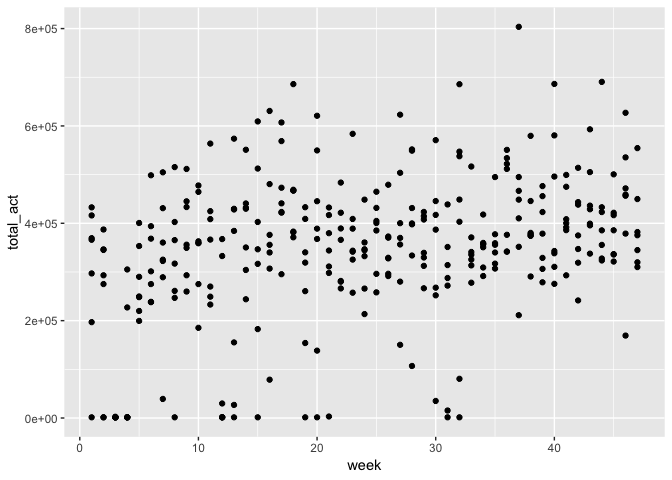
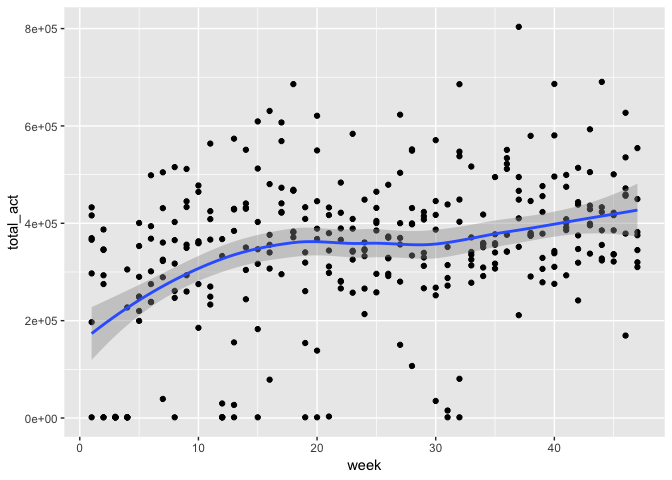
filtered data into week 1 sunday 24 hours, made plot

Changed region(s): [[0.125, 0.375, 0.9688, 0.75]]

diff --git a/p8105_mtp_jih2119.md b/p8105_mtp_jih2119.md
@@ -83,8 +83,11 @@ This dataset consists of week, day, and activity variables. Each activity column
 
 ``` r
 ggplot(accel_data, aes(x = week, y = total_act)) +  
-  geom_point()
+  geom_point() +
+  geom_smooth()
 ```
+
+    ## `geom_smooth()` using method = 'loess' and formula 'y ~ x'
 
 ![](p8105_mtp_jih2119_files/figure-markdown_github/total_act_plot-1.png)
 
@@ -94,6 +97,20 @@ ggplot(accel_data, aes(x = day, y = avg_act)) +
 ```
 
 ![](p8105_mtp_jih2119_files/figure-markdown_github/days-1.png)
+
+``` r
+sunday_act = accel_data %>% 
+  gather(key = daily_act, value = activity, activity_1:activity_1440) %>% 
+  filter(day == "Sunday" & week == 1) %>% 
+  mutate(daily_act = str_replace(daily_act, "activity_", "")) %>% 
+  mutate(daily_act = as.numeric(daily_act) / 60)
+
+ggplot(sunday_act, aes(x = daily_act, y = activity)) +
+  geom_point() +
+  scale_x_continuous(breaks = seq(0, 24, by = 1))
+```
+
+![](p8105_mtp_jih2119_files/figure-markdown_github/24_hour_sunday-1.png)
 
 ``` r
 #wordcountaddin::text_stats("p8105_mtp_jih2119.Rmd")
